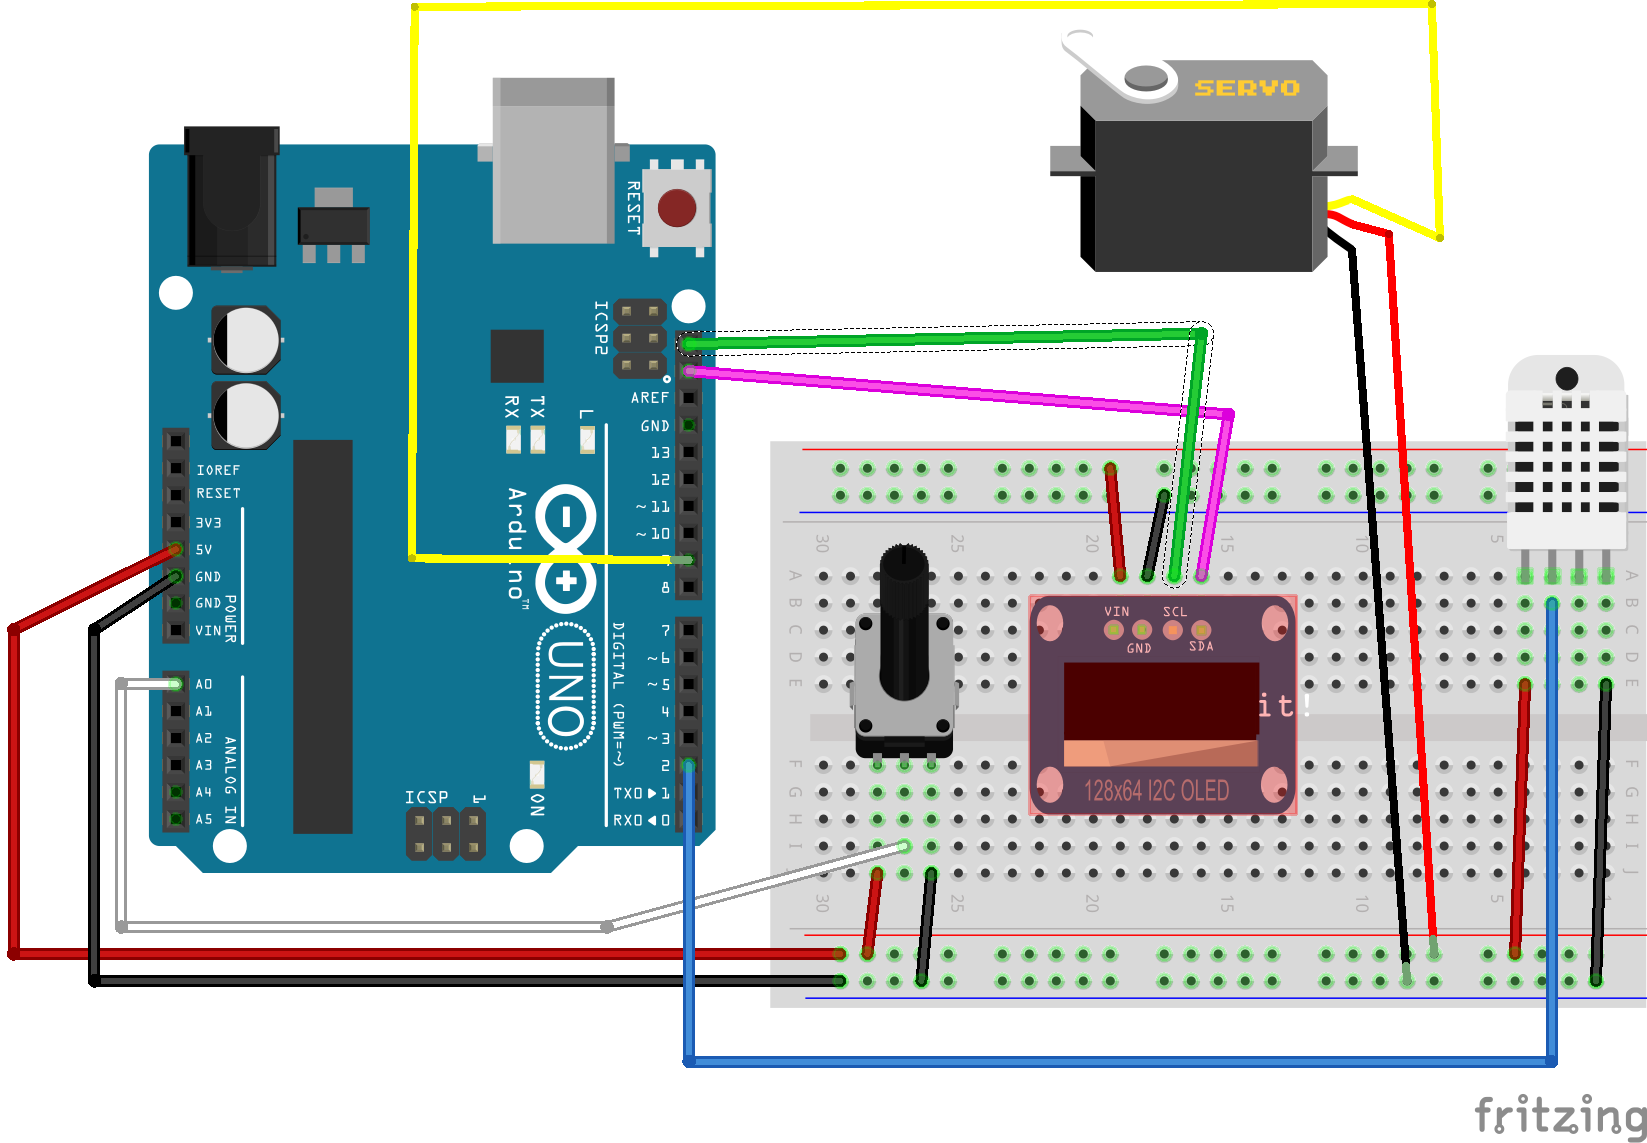
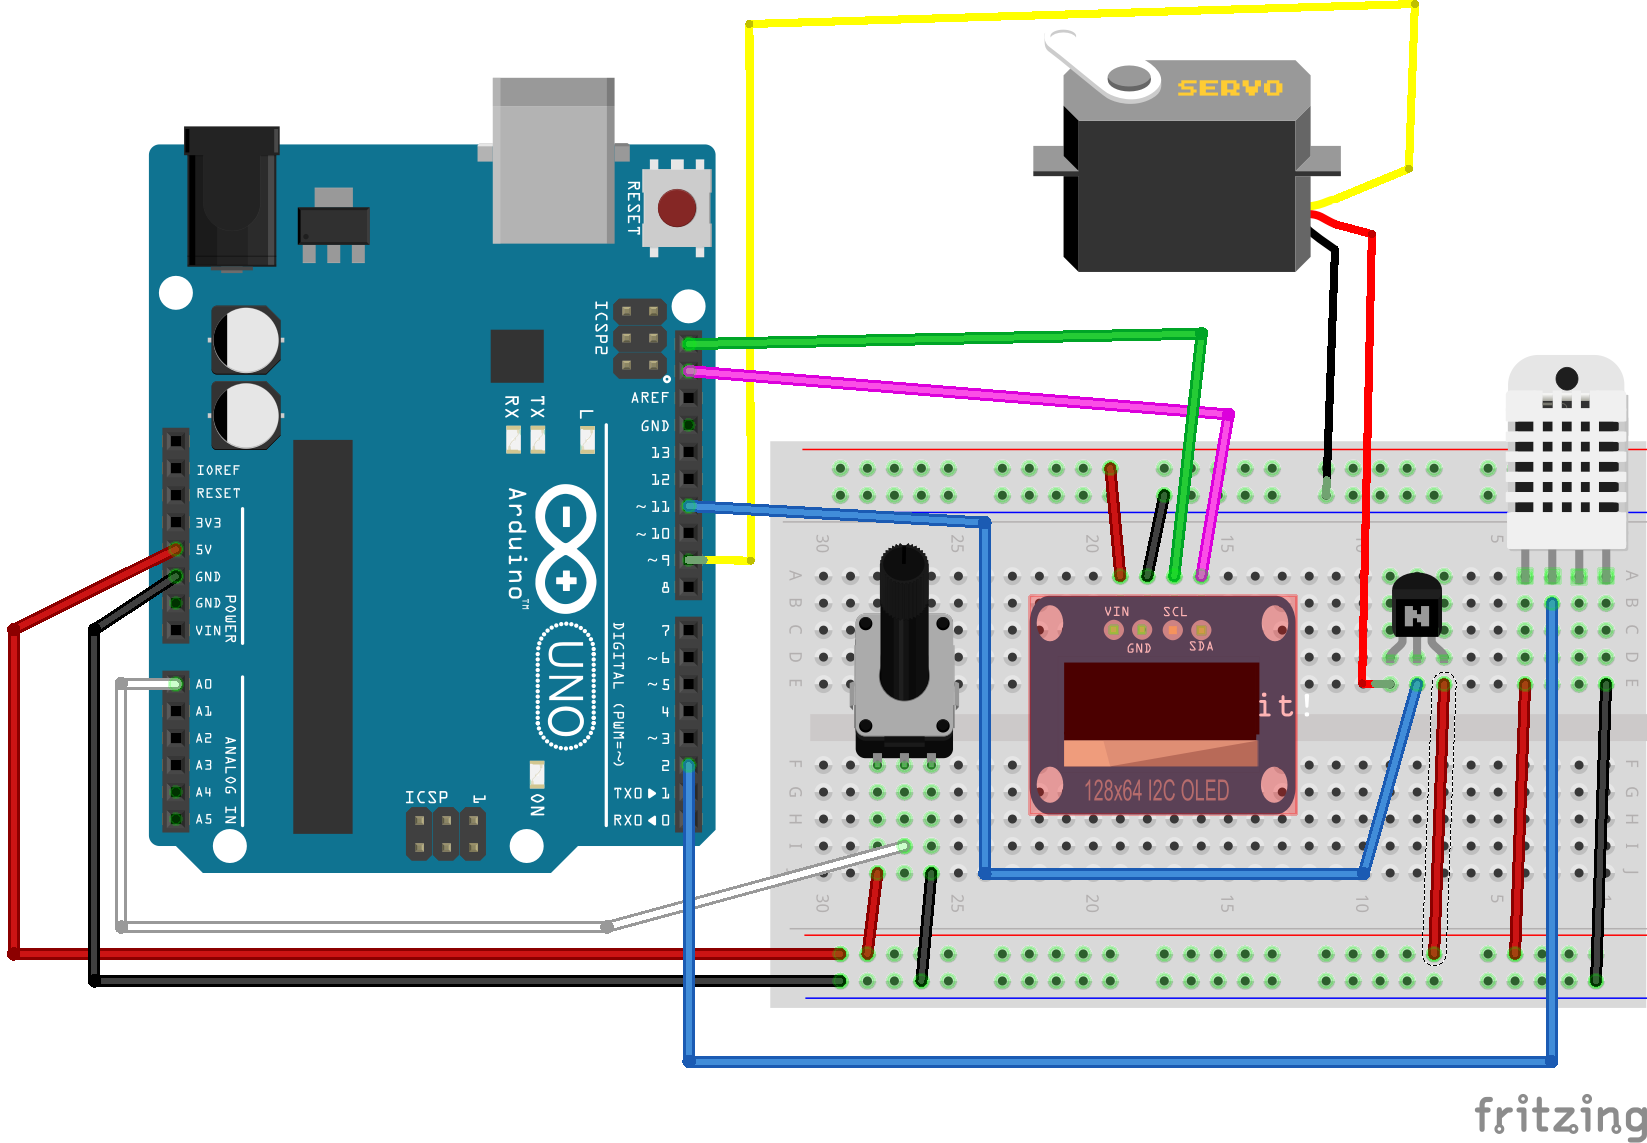
attic: added transistor to eliminate servo jitter on startup, conserve battery

Changed region(s): [[0.2477, 0.0, 0.898, 0.8574]]

diff --git a/attic_fan/readme.md b/attic_fan/readme.md
@@ -14,8 +14,8 @@ hardware:
           * DHT22 temp/humidity sensor                : $10
           * micro hobby servo amazon part B001CFUBN8  : $5 
           * arduino uno clone amazon part B00E5WJSHK  : $13
-          * potentiometer, wire, etc..                ------
-                                                    ~ $45
+          * potentiometer, wire, NPN transistor etc. ------
+                                                      ~ $45
           
           you could shrink this down allot cost wise if you eliminate the dht22 and oled screen, then
           you can use an attiny + servo + pot (3+5+1). I probably will in time, but first I want the feedback
@@ -28,12 +28,13 @@ wiring:
          * dht22 on pin 2
          * OLED  on I2C (address 0x3c)
          * pot   on pin A0
+         * NPN Transistor: base on pin 11, collector +5, emitter to servo power wire
 
 notes:   
 -----------------------------------
-          oleds can burn in, do not leave on, I am just going to battery 
-          power and turn on to take spot checks.
+          oleds can burn in, do not leave on, going to battery power and turn on to take spot checks. 
+          Transistor elimniates power on jitter and conserves battery power when idle
          
 ![screenshot](https://raw.githubusercontent.com/dzzie/home_automation/master/attic_fan/wiring.png)
 
-
+![screenshot](https://raw.githubusercontent.com/dzzie/home_automation/master/attic_fan/attic_shield.jpg)
